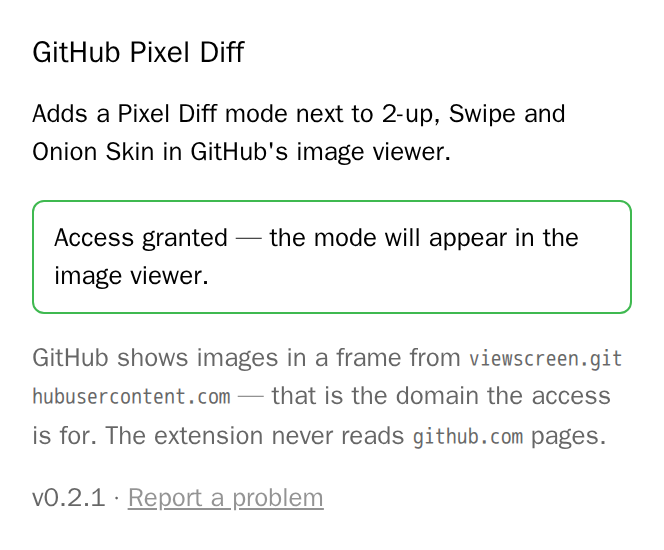
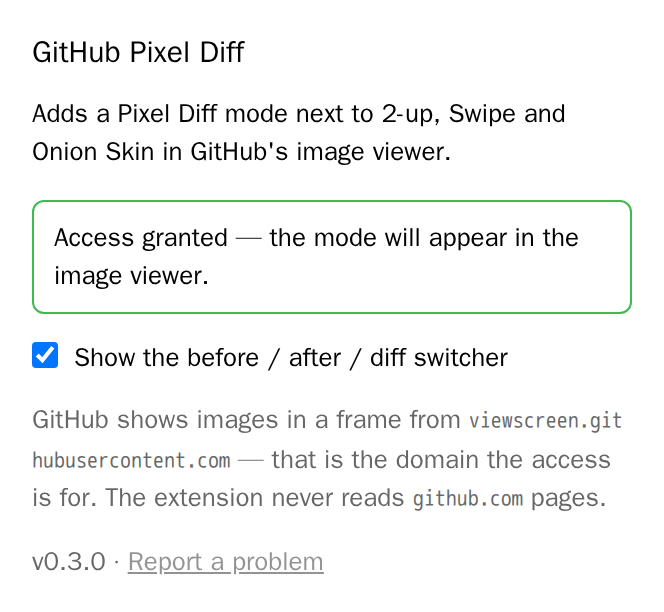
Переключатель «до / после / разница»
Обе версии показываются в том же масштабе и той же обрезке, что и
разница, — родные 2-up и Swipe этого не дают. Кому не нужен, выключает
галочкой в окне расширения; по умолчанию показан.

Ряд занимает место под кадром, поэтому вычет высоты стал переменной.

diff --git a/src/content/frame.js b/src/content/frame.js
@@ -19,6 +19,8 @@
   const THRESHOLD_KEY = 'ghpd:threshold';
   const OUTLINE_KEY = 'ghpd:outline';
   const MODE_KEY = 'ghpd:mode';
+  /** Настройка из окна расширения: показывать ли переключатель кадров. */
+  const SHOW_VIEWS_DEFAULT = true;
 
   /** Репозиторий страницы: GitHub кладёт его во фрейм параметром `nwo`. */
   function repositoryFromUrl() {
@@ -138,13 +140,42 @@
     }
   }
 
-  function drawCrop(canvas, full, result, cropped, outline) {
+  /**
+   * Показывать ли переключатель «до / после / разница».
+   * Живёт в хранилище расширения, а не фрейма: ставится в окне расширения,
+   * читается здесь. Нет хранилища — показываем.
+   */
+  async function readShowViews() {
+    try {
+      const stored = await api?.storage?.sync?.get({ showViews: SHOW_VIEWS_DEFAULT });
+      return stored?.showViews ?? SHOW_VIEWS_DEFAULT;
+    } catch {
+      return SHOW_VIEWS_DEFAULT;
+    }
+  }
+
+  function drawCrop(canvas, full, result, cropped, outline, view) {
     // Холст с полным кадром один на всю панель: на снимке в несколько
     // мегапикселей заводить его заново на каждую отрисовку — лишние десятки
     // мегабайт при каждом движении ползунка.
-    full.width = result.diff.width;
-    full.height = result.diff.height;
-    full.getContext('2d').putImageData(result.diff, 0, 0);
+    full.width = result.width;
+    full.height = result.height;
+    const source = full.getContext('2d');
+    if (view === 'diff') {
+      source.putImageData(result.diff, 0, 0);
+    } else {
+      // «До» и «после» рисуем в том же размере, что и разницу: у вектора это
+      // увеличенный кадр, и переключение не должно менять масштаб.
+      const image = result[view];
+      source.clearRect(0, 0, result.width, result.height);
+      source.drawImage(
+        image,
+        0,
+        0,
+        image.naturalWidth * result.scale,
+        image.naturalHeight * result.scale,
+      );
+    }
 
     if (!cropped || !result.bounds) {
       canvas.width = result.width;
@@ -205,13 +236,15 @@
     let worker = null;
     let request = 0;
     let cropped = true;
+    // Какой из трёх кадров показан: разница, «до» или «после».
+    let shownFrame = 'diff';
     // Рамка вокруг изменений — по умолчанию да: без неё правку в несколько
     // пикселей на уменьшенном кадре не найти. Но на мелком снимке она сама
     // закрывает картинку, поэтому её можно убрать, и выбор запоминается.
     let outline = readSetting(OUTLINE_KEY) !== 'off';
 
     const render = () => {
-      const box = drawCrop(canvas, full, result, cropped, outline);
+      const box = drawCrop(canvas, full, result, cropped, outline, shownFrame);
       fitCanvas(canvas);
       const percent = result.ratio * 100;
       const shown = percent >= 0.01 ? percent.toFixed(2) : '<0.01';
@@ -325,15 +358,39 @@
       }
     };
 
+    // Переключатель кадров. Родные 2-up и Swipe показывают то же самое, но
+    // без обрезки по изменениям и без общего масштаба — здесь «до» и «после»
+    // ложатся ровно на то место, где найдена разница.
+    const views = el('div', 'ghpd-views');
+    const viewButtons = new Map();
+    for (const name of ['before', 'after', 'diff']) {
+      const button = el('button', 'ghpd-view-button');
+      button.type = 'button';
+      button.textContent = t(`view${name[0].toUpperCase()}${name.slice(1)}`);
+      button.addEventListener('click', () => {
+        shownFrame = name;
+        for (const [key, node] of viewButtons) node.classList.toggle('selected', key === shownFrame);
+        if (result) render();
+      });
+      viewButtons.set(name, button);
+      views.append(button);
+    }
+    viewButtons.get('diff').classList.add('selected');
+
     let debounce = null;
     const slider = createSlider((value) => {
       clearTimeout(debounce);
       debounce = setTimeout(() => compare(value), 150);
     });
-    view.append(slider.element);
+    view.append(slider.element, views);
 
     return {
       element: view,
+      showViews(visible) {
+        views.hidden = !visible;
+        // Переключатель занимает место под кадром — кадр вписываем с учётом.
+        document.documentElement.style.setProperty('--ghpd-reserve', visible ? '120px' : '90px');
+      },
       show() {
         view.hidden = false;
         if (!result) compare(slider.value);
@@ -351,6 +408,14 @@
 
     const panel = build(pair, modes);
     document.body.append(panel.element);
+
+    // Настройка из окна расширения: читается асинхронно, поэтому переключатель
+    // до ответа спрятан — показать его позже дешевле, чем моргнуть им.
+    panel.showViews(false);
+    readShowViews().then((visible) => panel.showViews(visible));
+    api?.storage?.onChanged?.addListener((changes, area) => {
+      if (area === 'sync' && changes.showViews) panel.showViews(changes.showViews.newValue !== false);
+    });
 
     // Панель режимов остаётся видимой: под неё оставляем место.
     const bar = document.querySelector('.js-render-bar') || modes.parentElement;

diff --git a/tests/frame.spec.js b/tests/frame.spec.js
@@ -48,7 +48,7 @@ function svgPair(size) {
 }
 
 /** Ставит подмену сети и подкладывает тексты вместо chrome.i18n. */
-async function openFrame(page, images = null) {
+async function openFrame(page, images = null, settings = {}) {
   await page.route('https://viewscreen.githubusercontent.com/**', (route) =>
     route.fulfill({ contentType: 'text/html; charset=utf-8', body: read('fixtures/frame.html') }),
   );
@@ -83,6 +83,11 @@ async function openFrame(page, images = null) {
     return route.fulfill({ contentType: 'text/javascript', body: read(`../src/${path}`) });
   });
 
+  await page.addInitScript((settings) => {
+    // @ts-ignore — хранилище расширения: настройка приходит из окна.
+    globalThis.storedSettings = settings;
+  }, settings);
+
   await page.addInitScript((locale) => {
     const getMessage = (key, substitutions = []) => {
       const entry = locale[key];
@@ -111,6 +116,13 @@ async function openFrame(page, images = null) {
     globalThis.chrome = {
       i18n: { getMessage, getUILanguage: () => 'en' },
       runtime: { getURL: (path) => `${location.origin}/__ext/${path}` },
+      storage: {
+        sync: {
+          // @ts-ignore
+          get: async (defaults) => ({ ...defaults, ...globalThis.storedSettings }),
+        },
+        onChanged: { addListener: () => {} },
+      },
     };
   }, messages);
 
@@ -198,8 +210,13 @@ test('в высоком фрейме содержимое по центру', as
   const gaps = await page.evaluate(() => {
     const view = document.querySelector('.ghpd-view').getBoundingClientRect();
     const canvas = document.querySelector('.ghpd-canvas').getBoundingClientRect();
-    const controls = document.querySelector('.ghpd-controls').getBoundingClientRect();
-    return { top: canvas.top - view.top, bottom: view.bottom - controls.bottom };
+    // Нижняя граница содержимого — последний видимый элемент панели, а не
+    // ползунок: под ним есть ещё переключатель кадров.
+    const last = [...document.querySelectorAll('.ghpd-view > *')]
+      .filter((node) => !node.hidden)
+      .pop()
+      .getBoundingClientRect();
+    return { top: canvas.top - view.top, bottom: view.bottom - last.bottom };
   });
 
   expect(Math.abs(gaps.top - gaps.bottom)).toBeLessThan(24);
@@ -217,8 +234,12 @@ test('рамка облегает кадр вплотную', async ({ page }) =
 
   const framed = await page.evaluate(() => {
     const canvas = document.querySelector('.ghpd-canvas').getBoundingClientRect();
-    // Всё, у чего есть видимая рамка, должно совпадать с кадром по размеру.
+    // Всё, что обрамляет кадр, должно совпадать с ним по размеру. Кнопки со
+    // своими рамками сюда не относятся — берём только предков холста и его
+    // самого.
+    const canvasNode = document.querySelector('.ghpd-canvas');
     return [...document.querySelectorAll('.ghpd-view, .ghpd-view *')]
+      .filter((node) => node === canvasNode || node.contains(canvasNode))
       .filter((node) => parseFloat(getComputedStyle(node).borderTopWidth) > 0)
       .map((node) => {
         const rect = node.getBoundingClientRect();
@@ -411,6 +432,44 @@ test('без отдельного потока считает сам', async ({ 
 
   expect(await page.evaluate(() => globalThis.workersStarted)).toBe(0);
   expect(await page.textContent('.ghpd-meta')).toMatch(/^[\d,]+ pixels/);
+});
+
+test('переключает «до», «после» и разницу', async ({ page }) => {
+  await openFrame(page);
+  await injectExtension(page);
+  await page.click('.ghpd-mode-item');
+  await waitForResult(page);
+  await page.click('.ghpd-crop-toggle');
+
+  // Цвет полоски, которая и отличается: в «до» серая, в «после» красная.
+  const stripe = () =>
+    page.evaluate(() => {
+      const canvas = document.querySelector('.ghpd-canvas');
+      const [r, g, b] = canvas.getContext('2d').getImageData(30, 605, 1, 1).data;
+      return `${r},${g},${b}`;
+    });
+
+  await page.click('.ghpd-views .ghpd-view-button:nth-child(1)');
+  expect(await stripe()).toBe('201,209,217');
+
+  await page.click('.ghpd-views .ghpd-view-button:nth-child(2)');
+  expect(await stripe()).toBe('248,81,73');
+
+  await page.click('.ghpd-views .ghpd-view-button:nth-child(3)');
+  expect(await page.evaluate(() =>
+    document.querySelector('.ghpd-views .ghpd-view-button:nth-child(3)').classList.contains('selected'),
+  )).toBe(true);
+});
+
+test('переключатель кадров можно выключить в настройках', async ({ page }) => {
+  await openFrame(page, null, { showViews: false });
+  await injectExtension(page);
+  await page.click('.ghpd-mode-item');
+  await waitForResult(page);
+
+  await expect
+    .poll(() => page.evaluate(() => document.querySelector('.ghpd-views')?.hidden))
+    .toBe(true);
 });
 
 test('подпись на языке интерфейса', async ({ page }) => {

diff --git a/src/content/frame.css b/src/content/frame.css
@@ -46,7 +46,8 @@
 /* Кадр вписывается целиком: увеличивать его сверх натурального размера незачем.
    Предел считаем от высоты фрейма, а не в процентах от родителя: у того высота
    определяется содержимым, и процент браузер просто не разрешит. Вычет — место
-   под подпись, ползунок, отступы и панель режимов.
+   под подпись, ползунок, отступы и панель режимов; с переключателем кадров
+   его нужно больше, и его размер задаётся при показе.
 
    Рамка — на самом холсте, без обёртки: обёртка мерила бы ширину по
    натуральному размеру картинки, а та ужимается по высоте, и справа от кадра
@@ -59,7 +60,7 @@
   width: auto;
   height: auto;
   max-width: 100%;
-  max-height: calc(100vh - var(--ghpd-bar-height, 40px) - 90px);
+  max-height: calc(100vh - var(--ghpd-bar-height, 40px) - var(--ghpd-reserve, 90px));
   object-fit: contain;
   border: 1px solid var(--borderColor-default, #d0d7de);
   border-radius: 4px;
@@ -157,3 +158,35 @@
 
 .ghpd-mark-small { width: 7px; height: 7px; }
 .ghpd-mark-large { width: 12px; height: 12px; }
+
+/* Переключатель кадров: «до», «после», разница. */
+.ghpd-views {
+  display: flex;
+  flex: none;
+  gap: 4px;
+}
+
+.ghpd-views[hidden] { display: none; }
+
+.ghpd-view-button {
+  font: inherit;
+  font-size: 12px;
+  padding: 2px 10px;
+  border-radius: 6px;
+  border: 1px solid transparent;
+  background: none;
+  color: var(--fgColor-muted, #59636e);
+  cursor: pointer;
+}
+
+.ghpd-view-button:hover { color: var(--fgColor-default, #1f2328); }
+
+.ghpd-view-button.selected {
+  border-color: var(--borderColor-default, #d0d7de);
+  color: var(--fgColor-default, #1f2328);
+}
+
+.ghpd-view-button:focus-visible {
+  outline: 2px solid var(--fgColor-accent, #0969da);
+  outline-offset: 1px;
+}

diff --git a/src/popup/popup.js b/src/popup/popup.js
@@ -51,6 +51,17 @@ report.href =
   `${REPOSITORY}/issues/new?body=` +
   encodeURIComponent(`\n\n---\n${version} · ${navigator.userAgent}`);
 
+// Переключатель кадров в панели: показывать или нет. По умолчанию да.
+const showViews = document.querySelector('#show-views');
+
+api.storage.sync.get({ showViews: true }).then(({ showViews: value }) => {
+  showViews.checked = value !== false;
+});
+
+showViews.addEventListener('change', () => {
+  api.storage.sync.set({ showViews: showViews.checked });
+});
+
 function show(granted) {
   status.classList.remove('status-checking');
   status.classList.toggle('status-granted', granted);

diff --git a/src/popup/popup.css b/src/popup/popup.css
@@ -35,6 +35,16 @@ button {
 
 button:hover { background: color-mix(in srgb, canvastext 14%, transparent); }
 
+.setting {
+  display: flex;
+  gap: 8px;
+  align-items: flex-start;
+  margin: 12px 0 0;
+  cursor: pointer;
+}
+
+.setting input { margin: 2px 0 0; }
+
 .note {
   margin: 12px 0 0;
   color: color-mix(in srgb, canvastext 60%, transparent);

diff --git a/src/popup/popup.html b/src/popup/popup.html
@@ -14,6 +14,11 @@
 
     <button id="grant" type="button" hidden data-i18n="popupGrant"></button>
 
+    <label class="setting">
+      <input id="show-views" type="checkbox" checked>
+      <span data-i18n="popupShowViews"></span>
+    </label>
+
     <p class="note" data-i18n-rich="popupNote"></p>
 
     <p class="report">

diff --git a/README.ru.md b/README.ru.md
@@ -21,6 +21,8 @@ GitHub умеет показывать две версии картинки ря
 - Считает, сколько пикселей изменилось и какую долю кадра это составляет.
 - Ползунок порога — от «ловить даже сглаживание» до «только заметное глазу»,
   в том же виде, что и ползунок Onion Skin.
+- Переключатель «до / после / разница» под кадром: обе версии в том же масштабе
+  и той же обрезке, что и разница. Выключается в окне расширения.
 - Разные размеры «до» и «после» не ломают сравнение: кадры выравниваются по
   левому верхнему углу, а изменение размера попадает в подпись.
 - Работает в приватных репозиториях: адреса картинок берутся из фрейма, который

diff --git a/CHANGELOG.md b/CHANGELOG.md
@@ -6,6 +6,15 @@ adheres to [semantic versioning](https://semver.org/).
 
 ## [Unreleased]
 
+## [0.4.0]
+
+### Added
+
+- A before / after / diff switcher under the frame — the two versions shown in
+  the same scale and crop as the difference.
+- A setting in the extension's window to hide that switcher; it is shown by
+  default.
+
 ## [0.3.0]
 
 ### Added
@@ -82,7 +91,8 @@ adheres to [semantic versioning](https://semver.org/).
 Initial release: the Pixel Diff mode in GitHub's image viewer, builds for
 Chrome, Firefox and Safari.
 
-[Unreleased]: https://github.com/Nemo-Illusionist/gh-pixel-diff/compare/v0.3.0...HEAD
+[Unreleased]: https://github.com/Nemo-Illusionist/gh-pixel-diff/compare/v0.4.0...HEAD
+[0.4.0]: https://github.com/Nemo-Illusionist/gh-pixel-diff/compare/v0.3.0...v0.4.0
 [0.3.0]: https://github.com/Nemo-Illusionist/gh-pixel-diff/compare/v0.2.3...v0.3.0
 [0.2.3]: https://github.com/Nemo-Illusionist/gh-pixel-diff/compare/v0.2.2...v0.2.3
 [0.2.2]: https://github.com/Nemo-Illusionist/gh-pixel-diff/compare/v0.2.1...v0.2.2

diff --git a/README.md b/README.md
@@ -22,6 +22,9 @@ fragment where the difference lives.
 - Counts how many pixels changed and what share of the frame that is.
 - A threshold slider — from "catch even anti-aliasing" to "only what the eye
   sees" — styled like the Onion Skin one.
+- A before / after / diff switcher under the frame: the two versions in the same
+  scale and the same crop as the difference. It can be turned off in the
+  extension's window.
 - Different "before" and "after" sizes don't break the comparison: frames are
   aligned by their top-left corner and the resize is reported in the caption.
 - Works in private repositories: the image addresses are read from the frame
